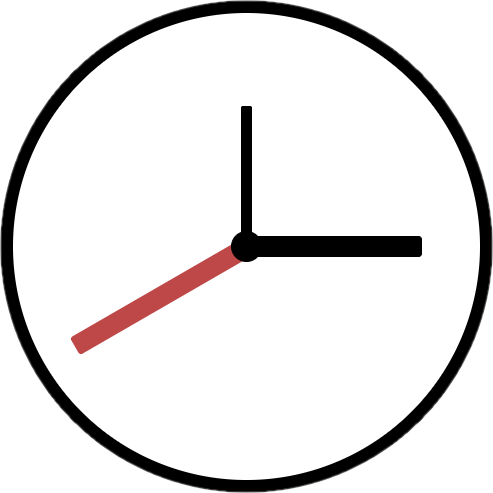
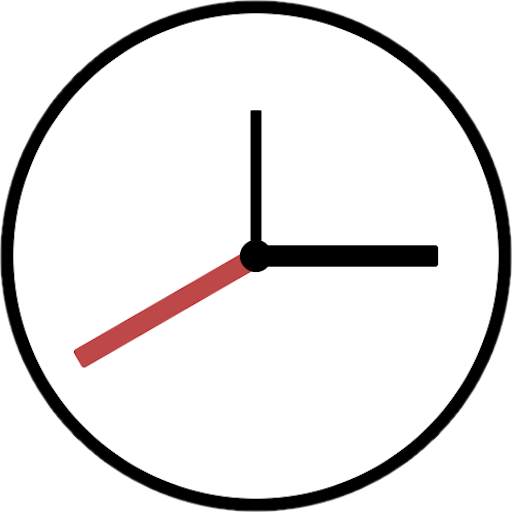
[deployment] version2

diff --git a/native-app/src/utils/storage/testStorage.ts b/native-app/src/utils/storage/testStorage.ts
@@ -48,7 +48,7 @@ export const testStorage = {
 export const examTemplateList: ExamTimer[] = [
     {
         id: "high_school_mock",
-        title: "고등학교 전국연합학력평가 (모의고사)",
+        title: "고등학교 시험",
         timeline: [
             { subject: "1교시 국어", startTime: "08:40", endTime: "10:00" },
             { subject: "2교시 수학", startTime: "10:30", endTime: "12:10" },
@@ -60,7 +60,7 @@ export const examTemplateList: ExamTimer[] = [
     },
     {
         id: "civil_service_9th",
-        title: "국가직/지방직 9급 공무원 필기시험",
+        title: "공무원 시험",
         timeline: [
             { subject: "9급 필기시험 (5과목 일괄)", startTime: "10:00", endTime: "11:40" }
         ]
